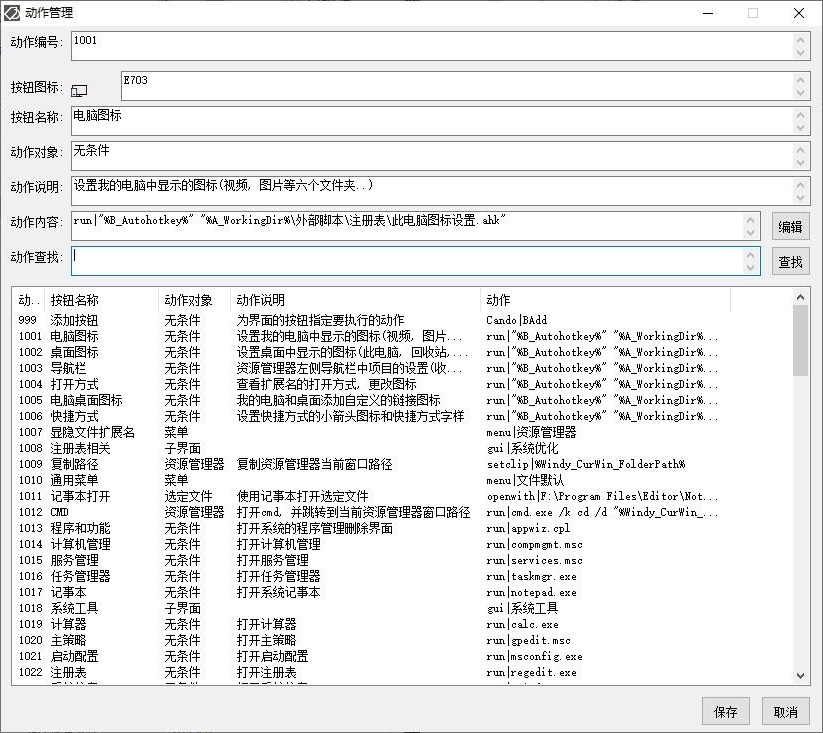
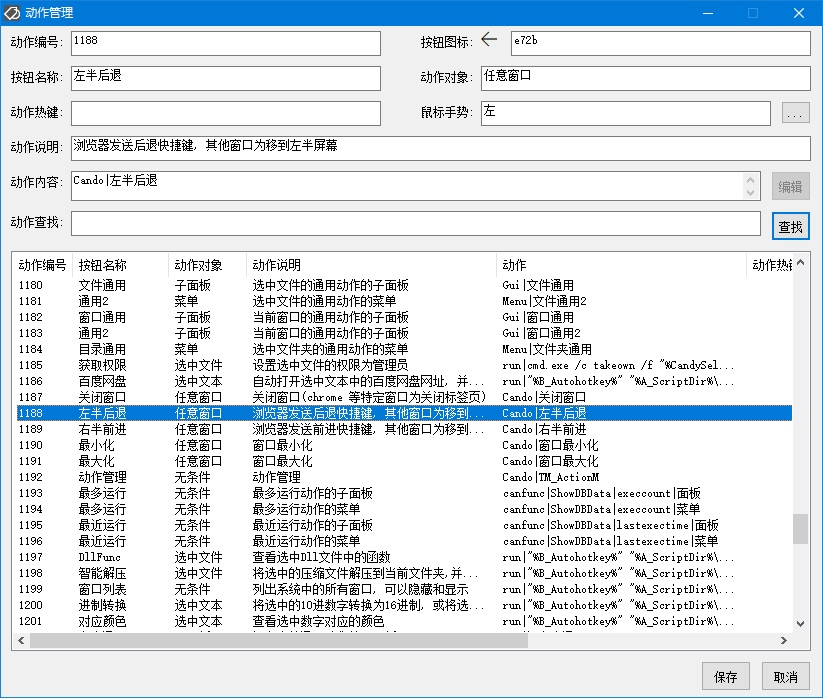
如意文档更新到 1.5

Changed region(s): [[0.0, 0.0, 1.0, 0.9614], [0.0, 0.9013, 1.0, 1.0], [0.9417, 0.721, 1.0, 0.7811]]

diff --git a/RuYi-Ahk/ActionList.md b/RuYi-Ahk/ActionList.md
@@ -163,7 +163,7 @@ layout: default
 |1152|f6fa|Bing搜索|选中文本|Bing搜索选中文本|run&#124;"%B_Autohotkey%" "%A_ScriptDir%\外部脚本\窗口处理\当前浏览器打开.ahk" https://cn.bing.com/search?q=%CandySel%|
 |1153|f6fa|Baidu/Bing|Chrome|百度 Bing切换|run&#124;"%B_Autohotkey%" "%A_ScriptDir%\外部脚本\窗口处理\百度Bing切换.ahk"|
 |1154|f6fa|京东搜索|选中文本|京东搜索选中文本|run&#124;"%B_Autohotkey%" "%A_ScriptDir%\外部脚本\窗口处理\当前浏览器打开.ahk" https://search.jd.com/Search?keyword=%CandySel%|
-|1155|f6fa|搜索引擎|菜单|打开网页搜索所选文本|Menu&#124;网页搜索|
+|1155|f6fa|搜索引擎|菜单|搜索引擎集合的菜单|Menu&#124;搜索引擎|
 |1156|f6fa|B站搜索|选中文本|B站搜索选中文本|run&#124;"%B_Autohotkey%" "%A_ScriptDir%\外部脚本\窗口处理\当前浏览器打开.ahk" https://search.bilibili.com/all?keyword=%CandySel%|
 |1157|ed25|如意目录|无条件|打开脚本所在目录|run&#124;%A_ScriptDir%|
 |1158|ed25|AppData|无条件|打开 AppData 目录|run&#124;shell:AppData|
@@ -194,3 +194,22 @@ layout: default
 |1183|EDE3|通用2|子面板|当前窗口的通用动作的子面板|Gui&#124;窗口通用2|
 |1184|EDE3|目录通用|菜单|选中文件夹的通用动作的菜单|Menu&#124;文件夹通用|
 |1185|f552|获取权限|选中文件|设置选中文件的权限为管理员|run&#124;cmd.exe /c takeown /f "%CandySel%" && icacls "%CandySel%" /grant administrator:F|
+|1186|f2b7|百度网盘|选中文本|自动打开选中文本中的百度网盘网址, 并将提取码放入剪贴板和自动填写|run&#124;"%B_Autohotkey%" "%A_ScriptDir%\外部脚本\文本处理\百度网盘链接.ahk" "%CandySel%"|
+|1187|e947|关闭窗口|任意窗口|关闭窗口(chrome 等特定窗口为关闭标签页)|Cando&#124;关闭窗口|
+|1188|e72b|左半后退|任意窗口|浏览器发送后退快捷键, 其他窗口为移到左半屏幕|Cando&#124;左半后退|
+|1189|e72a|右半前进|任意窗口|浏览器发送前进快捷键, 其他窗口为移到右半屏幕|Cando&#124;右半前进|
+|1190|e74b|最小化|任意窗口|窗口最小化|Cando&#124;窗口最小化|
+|1191|e74a|最大化|任意窗口|窗口最大化|Cando&#124;窗口最大化|
+|1192|ee92|动作管理|无条件|动作管理|Cando&#124;TM_ActionM|
+|1193|e1ce|最多运行|无条件|最多运行动作的子面板|canfunc&#124;ShowDBData&#124;execcount&#124;面板|
+|1194|e728|最多运行|无条件|最多运行动作的菜单|canfunc&#124;ShowDBData&#124;execcount&#124;菜单|
+|1195|e1cf|最近运行|无条件|最近运行动作的子面板|canfunc&#124;ShowDBData&#124;lastexectime&#124;面板|
+|1196|f0e9|最近运行|无条件|最近运行动作的菜单|canfunc&#124;ShowDBData&#124;lastexectime&#124;菜单|
+|1197|f2b7|DllFunc|选中文件|查看选中Dll文件中的函数|run&#124;"%B_Autohotkey%" "%A_ScriptDir%\外部脚本\文件处理\Dll文件中的函数.ahk" "%CandySel%"|
+|1198|f2b7|智能解压|选中文件|将选中的压缩文件解压到当前文件夹,并且只有一层文件夹|run&#124;"%B_Autohotkey%" "%A_ScriptDir%\外部脚本\文件处理\压缩文件智能解压.ahk" "%CandySel%"|
+|1199|f2b7|窗口列表|无条件|列出系统中的所有窗口, 可以隐藏和显示|run&#124;"%B_Autohotkey%" "%A_ScriptDir%\外部脚本\窗口处理\窗口_显示或隐藏.ahk"|
+|1200|f2b7|进制转换|选中文本|将选中的10进数字转换为16进制, 或将选中的16进数字转换为10进制|run&#124;"%B_Autohotkey%" "%A_ScriptDir%\外部脚本\文本处理\数字_十进制十六进制转换.ahk" "%CandySel%"|
+|1201|f2b7|对应颜色|选中文本|查看选中数字对应的颜色|run&#124;"%B_Autohotkey%" "%A_ScriptDir%\外部脚本\文本处理\数字_查看代码对应的颜色.ahk" "%CandySel%"|
+|1202|EDE3|文本通用|子面板|短文本的通用动作的子面板|Gui&#124;短文本通用|
+|1203|EDE3|文本通用|菜单|选中短文本通用动作的菜单|Menu&#124;短文本通用|
+|1204|EDE3|数字通用|菜单|选中数字通用动作的菜单|Menu&#124;数字通用|

diff --git a/RuYi-Ahk/index.md b/RuYi-Ahk/index.md
@@ -42,12 +42,17 @@ layout: default
 
 - <span id="Action">动作</span>  
   - 动作的的设置保存在 配置文件/动作列表.ini 文件中. 动作有以下类别: 运行(Run), 面板(Gui), 菜单(Menu), 发送按键(Key), 内置命令和函数(Cando 和 CanFunc) 等. 面板上的按钮对应一个动作, 点击面板上的按钮就会执行相应的动作.  
-     - 运行: 运行程序, 打开文件(文件夹, 网址). 如打开C盘写为 "Run&#124;C:", 打开记事本写为 "Run&#124;notepad.exe". 要运行的外部 Ahk 脚本统一放在 外部脚本 目录, 现在内置的外部动作脚本有60个.  
+     - 运行: 运行程序, 打开文件(文件夹, 网址). 如打开C盘写为 "Run&#124;C:", 打开记事本写为 "Run&#124;notepad.exe". 要运行的外部 Ahk 脚本统一放在 外部脚本 目录, 现在内置的外部动作脚本有 72 个.  
      - 面板: 在主面板上点击按钮后, 显示一个子面板. 动作写作 "Gui&#124;常用工具"  
      - 菜单: 在主面板上点击按钮后, 显示一个子面板中按钮的菜单.  动作写作 "Menu&#124;常用工具"  
      - 内置命令和函数: 执行内置的 ahk 脚本标签和函数.  
   -  [完整的内置动作列表](ActionList.md)  
-  - 动作的管理由托盘菜单的 "动作管理" 和面板按钮编辑界面的 转到动作编辑 按钮来启动.  
+  - 动作的管理由托盘菜单的 "动作管理" 和面板按钮编辑界面的 转到动作编辑 按钮来启动.   
+  动作管理界面可以修改动作, 例如修改动作的图标, 名称, 针对的对象, 热键, 鼠标手势, 说明文本, 动作的命令. 也可以在这里创建自己的动作(自定义动作编号 >5000).
+  版本[1.5 ]
+  .1 新增 动作的单独热键, 如 ^!a, 表示 Ctrl + Alt + a 热键
+  .2 新增 动作的单独鼠标手势, 如 左, 表示按下鼠标右键想左拖, 默认配置是将窗口放到左半屏幕.
+  .3 默认配置中  鼠标手势 上右  打开主界面, 可以在配置文件 如一.ini 中修改, 也可以整体关闭鼠标手势.
   ![Image text](../img/动作管理.jpg)
 
 - <span id="Script">外部脚本</span>
@@ -136,6 +141,11 @@ layout: default
 |1175|是|序列号|选中驱动器|读取选中驱动器的序列号|
 |1176|是|AppId|任意窗口|更改窗口的AppId, 将窗口从当前任务栏分组中移除|
 |1177|是|FolderMenu|选中文件夹|将选中文件夹以菜单形式显示(以文件夹中的文件创建一个右键菜单)|
+|1186|是|百度网盘|选中文本|自动打开选中文本中的百度网盘网址, 并将提取码放入剪贴板和自动填写|
+|1197|否|DllFunc|选中文件|查看选中Dll文件中的函数|
+|1198|否|智能解压|选中文件|将选中的压缩文件解压到当前文件夹,并且只有一层文件夹|
+|1199|否|窗口列表|无条件|列出系统中的所有窗口, 可以隐藏和显示|
+|1200|否|进制转换|选中文本|将选中的10进数字转换为16进制, 或相反|
+|1201|否|对应颜色|选中文本|查看选中数字对应的颜色|
 
- 
 

diff --git a/RuYi-Ahk/history.md b/RuYi-Ahk/history.md
@@ -9,6 +9,21 @@ layout: default
 下面列出了如意百宝箱发布以来的变更和新增内容.  
 
 # [](#header-2) 更新历史
+### [](#header-3) 1.5  2023/2/_  
+1.  新增 动作指定单独的热键来打开  
+2.  新增 动作可以指定鼠标手势来打开
+.1 新增 一些方便鼠标手势来运行的内置动作
+3.  新增 外部脚本  
+.1 百度网盘链接.ahk 复制百度网盘链接文本时, 自动打开  
+.2 Dll文件中的函数.ahk  
+.3 压缩文件智能解压.ahk  
+.4 数字_十进制十六进制转换.ahk  
+.5 数字_查看代码对应的颜色.ahk  
+.6 窗口_显示或隐藏.ahk  
+4.  修改 外部脚本  
+.1 修改  打开的文件夹同步   可以在 ".忽略列表.ini" 文件中 [判断依据] →设置→ 判断类型=最近修改时间 不使用md5来判断文件是否相等
+
+
 ### [](#header-3) 1.4  2023/2/4  
 1. 新增 记录动作运行的次数和时间  
 .1 新增 托盘右键菜单 最近打开和最多打开 面板(只显示无条件执行的动作)  
